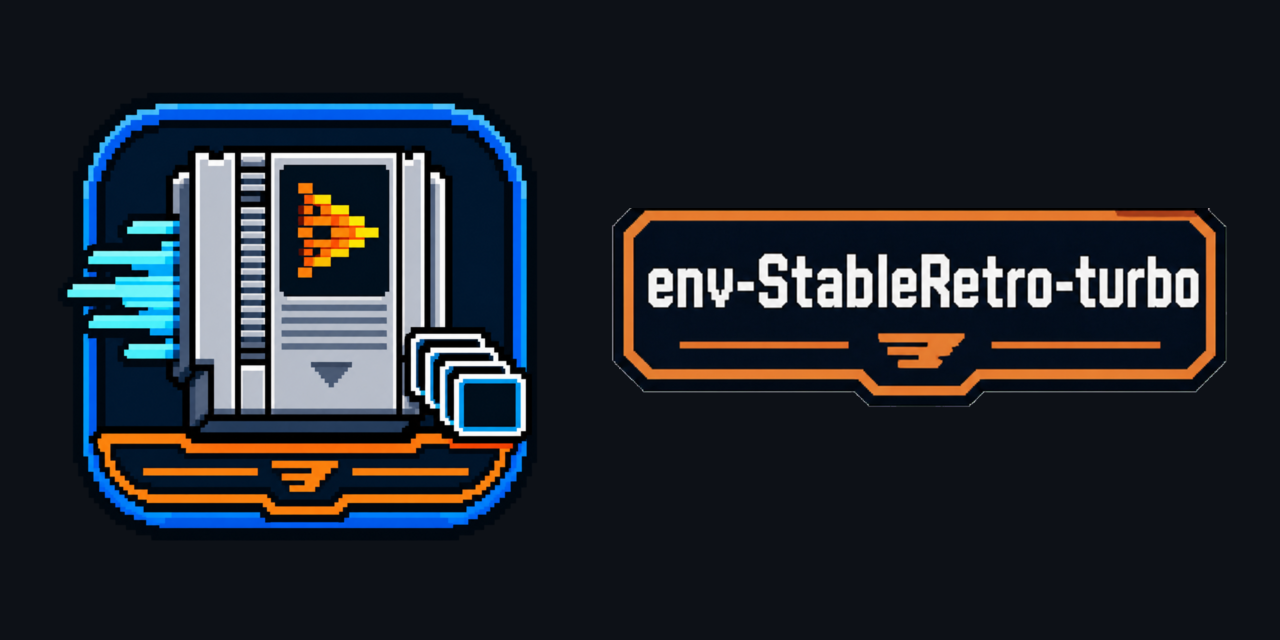
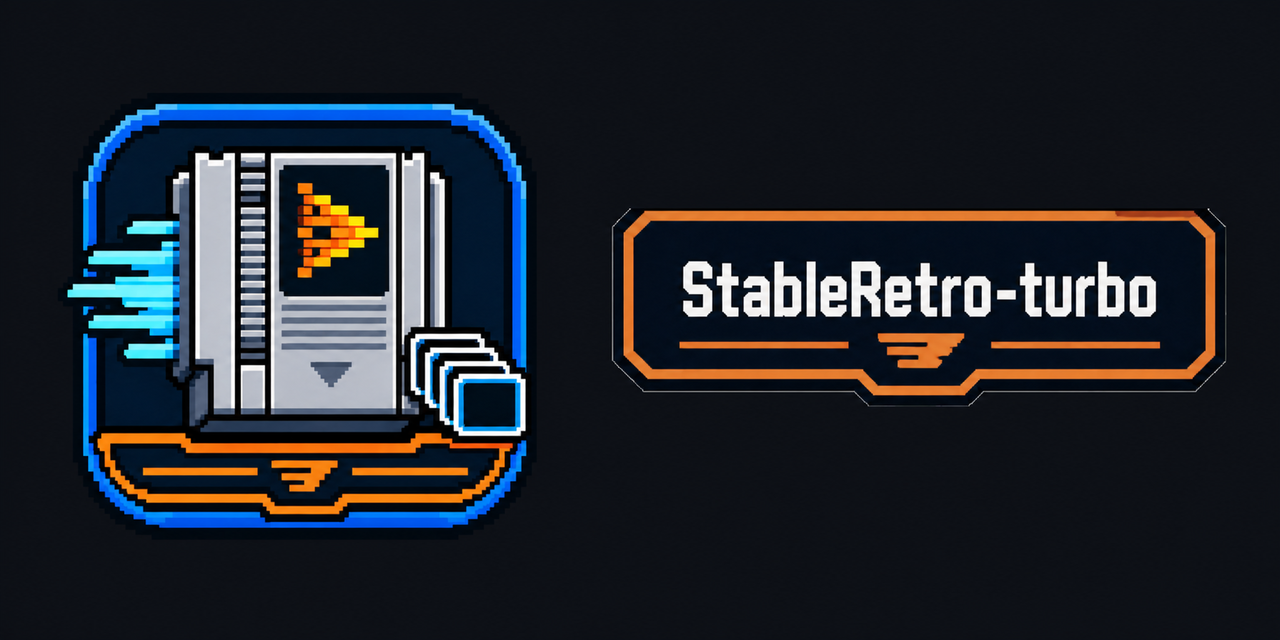
Update product branding to StableRetro-turbo

diff --git a/SPECS.md b/SPECS.md
@@ -4,7 +4,7 @@
 
 ## PROJECT REQUIREMENTS
 
-- Use `env-StableRetro-turbo` as the project and GitHub repository name, `env-stableretro-turbo` as the Python distribution name, and `env_stableretro_turbo` as the public Python import package; current project-owned identities must not use any former project, distribution, import, or command identifier.
+- Use `StableRetro-turbo` as the product-facing brand and exact logo text, `env-StableRetro-turbo` as the GitHub repository name, `env-stableretro-turbo` as the Python distribution name, and `env_stableretro_turbo` as the public Python import package.
 - The project must preserve Stable Retro's supported game integrations and public single-environment semantics, including saved-state loading, scenario rewards and termination, raw info variables, and ROM import; Turbo features must not reinterpret or remove them.
 - Scalar and vector environments must accept every Stable Retro built-in action mode, exact caller-supplied button-label action tables, and game-owned named tables with identical ordered controller semantics.
 - Published package artifacts must exclude ROM payloads and allow users to supply required ROMs through the supported import workflow.

diff --git a/README.md b/README.md
@@ -1,5 +1,5 @@
 <div align="center">
-  <img src="./logo.png" alt="env-StableRetro-turbo" width="260" />
+  <img src="./logo.png" alt="StableRetro-turbo" width="260" />
 
   **🚀 Blazing-fast Stable Retro fork with native vectorization and preprocessing 🚀**
 </div>
